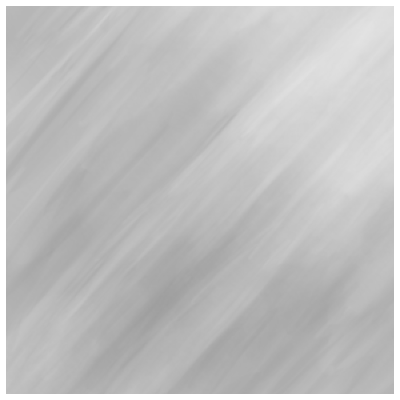
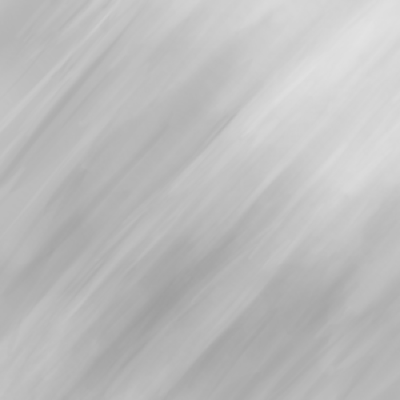
Added open/closed door shader things

Changed region(s): [[0.0, 0.0, 1.0, 1.0]]

diff --git a/metabox-surfaces-poc/game.cpp b/metabox-surfaces-poc/game.cpp
@@ -34,7 +34,8 @@ namespace game {
 	sf::Texture grid;
 	sf::Texture player_tex;
 	sf::Texture block_tex;
-	sf::Shader open_meta_door_shader;
+	sf::Shader meta_box_shader;
+    sf::Shader meta_door_shader;
 	int next_box_id;
 	float fps;
 	Player player;
@@ -87,9 +88,11 @@ void game::setup() {
 
     auto c = add_box(a, 3, 4);
     set_box_door(c, Left, 0);
+    set_box_door(c, Top, 3);
 
 	auto d = add_box(a, 1, 4);
 	set_box_door(d, Right, 6);
+    set_box_door(d, Top, 3);
 
     auto e = add_box(c, 0, 6);
     set_box_door(e, Left, 0);
@@ -113,7 +116,8 @@ void game::setup() {
 		new sf::RenderWindow(
 			sf::VideoMode(BOX_RENDER_SIZE, BOX_RENDER_SIZE),
 			"Metabox Surfaces - Proof Of Concept",
-			sf::Style::Close | sf::Style::Titlebar));
+			sf::Style::Close | sf::Style::Titlebar,
+            sf::ContextSettings::ContextSettings(0, 0, 0, 3, 0)));
 	window->setActive(true);
 
 	// Create a graphical text to display
@@ -127,7 +131,8 @@ void game::setup() {
 	block_tex.loadFromFile("graphics/block.png");
 
 	// Load the open-meta-door shader
-	open_meta_door_shader.loadFromFile("open_meta_door.vert", "open_meta_door.frag");
+	meta_box_shader.loadFromFile("meta_box.vert", "meta_box.frag");
+    meta_door_shader.loadFromFile("meta_door.vert", "meta_door.frag");
 
 	//
 	//set_mode(Edit);
@@ -911,9 +916,11 @@ void game::render_box(shared_ptr<Box> box) {
 	}
 
 	// Draw walls
-	float thickness = 2.f;
+	float thickness = 6.f;
 	for (int face = 0; face < 4; face++) {
 		sf::Sprite block_sprite(block_tex);
+
+        // Stretch out a block-texture. This is not ideal.
 		if ((BoxFace)face == Top || (BoxFace)face == Bottom) {
 			block_sprite.setScale(sf::Vector2f(
 				(float)BOX_SLOTS * (float)BOX_PIXELS_PER_SLOT / block_tex.getSize().x,
@@ -924,12 +931,35 @@ void game::render_box(shared_ptr<Box> box) {
 				(float)BOX_SLOTS * (float)BOX_PIXELS_PER_SLOT / block_tex.getSize().y));
 		}
 
+        // Shift the block texture if necessary.
 		if ((BoxFace)face == Right) {
 			block_sprite.setPosition(sf::Vector2f(BOX_SLOTS * BOX_PIXELS_PER_SLOT - thickness, 0));
 		} else if ((BoxFace)face == Bottom) {
 			block_sprite.setPosition(sf::Vector2f(0, BOX_SLOTS * BOX_PIXELS_PER_SLOT - thickness));
 		}
-		box->texture->draw(block_sprite);
+
+        // Add open/closed door shader to render states if there's a door in this wall
+        sf::RenderStates states;
+        auto door = box->doors[face];
+        if (door) {
+
+            static sf::Clock clock;
+            sf::Time t = clock.getElapsedTime();
+
+            int face_pos;
+            if (face == BoxFace::Top) face_pos = door->slot->x;
+            else if (face == BoxFace::Right) face_pos = door->slot->y;
+            else if (face == BoxFace::Bottom) face_pos = BOX_SLOTS - door->slot->x;
+            else if (face == BoxFace::Left) face_pos = BOX_SLOTS - door->slot->y;
+
+            meta_door_shader.setParameter("t", (door->adjacency ? 1.0f : door->t));
+            meta_door_shader.setParameter("face", face);
+            meta_door_shader.setParameter("face_pos", face_pos);
+            meta_door_shader.setParameter("seed", t.asSeconds());
+            states.shader = &meta_door_shader;
+        }
+
+		box->texture->draw(block_sprite, states);
 	}
 
 	// Draw all recursive children
@@ -996,11 +1026,11 @@ void game::get_box_shader(shared_ptr<Box> box, sf::RenderStates& render_states, 
 	sf::Time t = clock.getElapsedTime();
 
 	// Reset the door transition time variable and the entropy variable based on recursion depth
-	open_meta_door_shader.setParameter("t", 0);
+	meta_box_shader.setParameter("t", 0);
 	float entropy = player.recursions.size();
 	if (entropy_shader) {
-		open_meta_door_shader.setParameter("entropy", entropy);
-		open_meta_door_shader.setParameter("seed", t.asSeconds());
+		meta_box_shader.setParameter("entropy", entropy);
+		meta_box_shader.setParameter("seed", t.asSeconds());
 	}
 
 	// Set the door transition
@@ -1014,9 +1044,9 @@ void game::get_box_shader(shared_ptr<Box> box, sf::RenderStates& render_states, 
 				else if (face == BoxFace::Bottom) face_pos = BOX_SLOTS - door->slot->x;
 				else if (face == BoxFace::Left) face_pos = BOX_SLOTS - door->slot->y;
 
-				open_meta_door_shader.setParameter("t", door->t);
-				open_meta_door_shader.setParameter("face", face);
-				open_meta_door_shader.setParameter("face_pos", face_pos);
+				meta_box_shader.setParameter("t", door->t);
+				meta_box_shader.setParameter("face", face);
+				meta_box_shader.setParameter("face_pos", face_pos);
 
 				break;
 			}
@@ -1025,7 +1055,7 @@ void game::get_box_shader(shared_ptr<Box> box, sf::RenderStates& render_states, 
 
 	// Set the shader pointer
 	if (entropy_shader || door_shader)
-		render_states.shader = &open_meta_door_shader;
+		render_states.shader = &meta_box_shader;
 }
 
 shared_ptr<Box> game::add_box(shared_ptr<Box> parent, int sx, int sy, bool recursive) {
